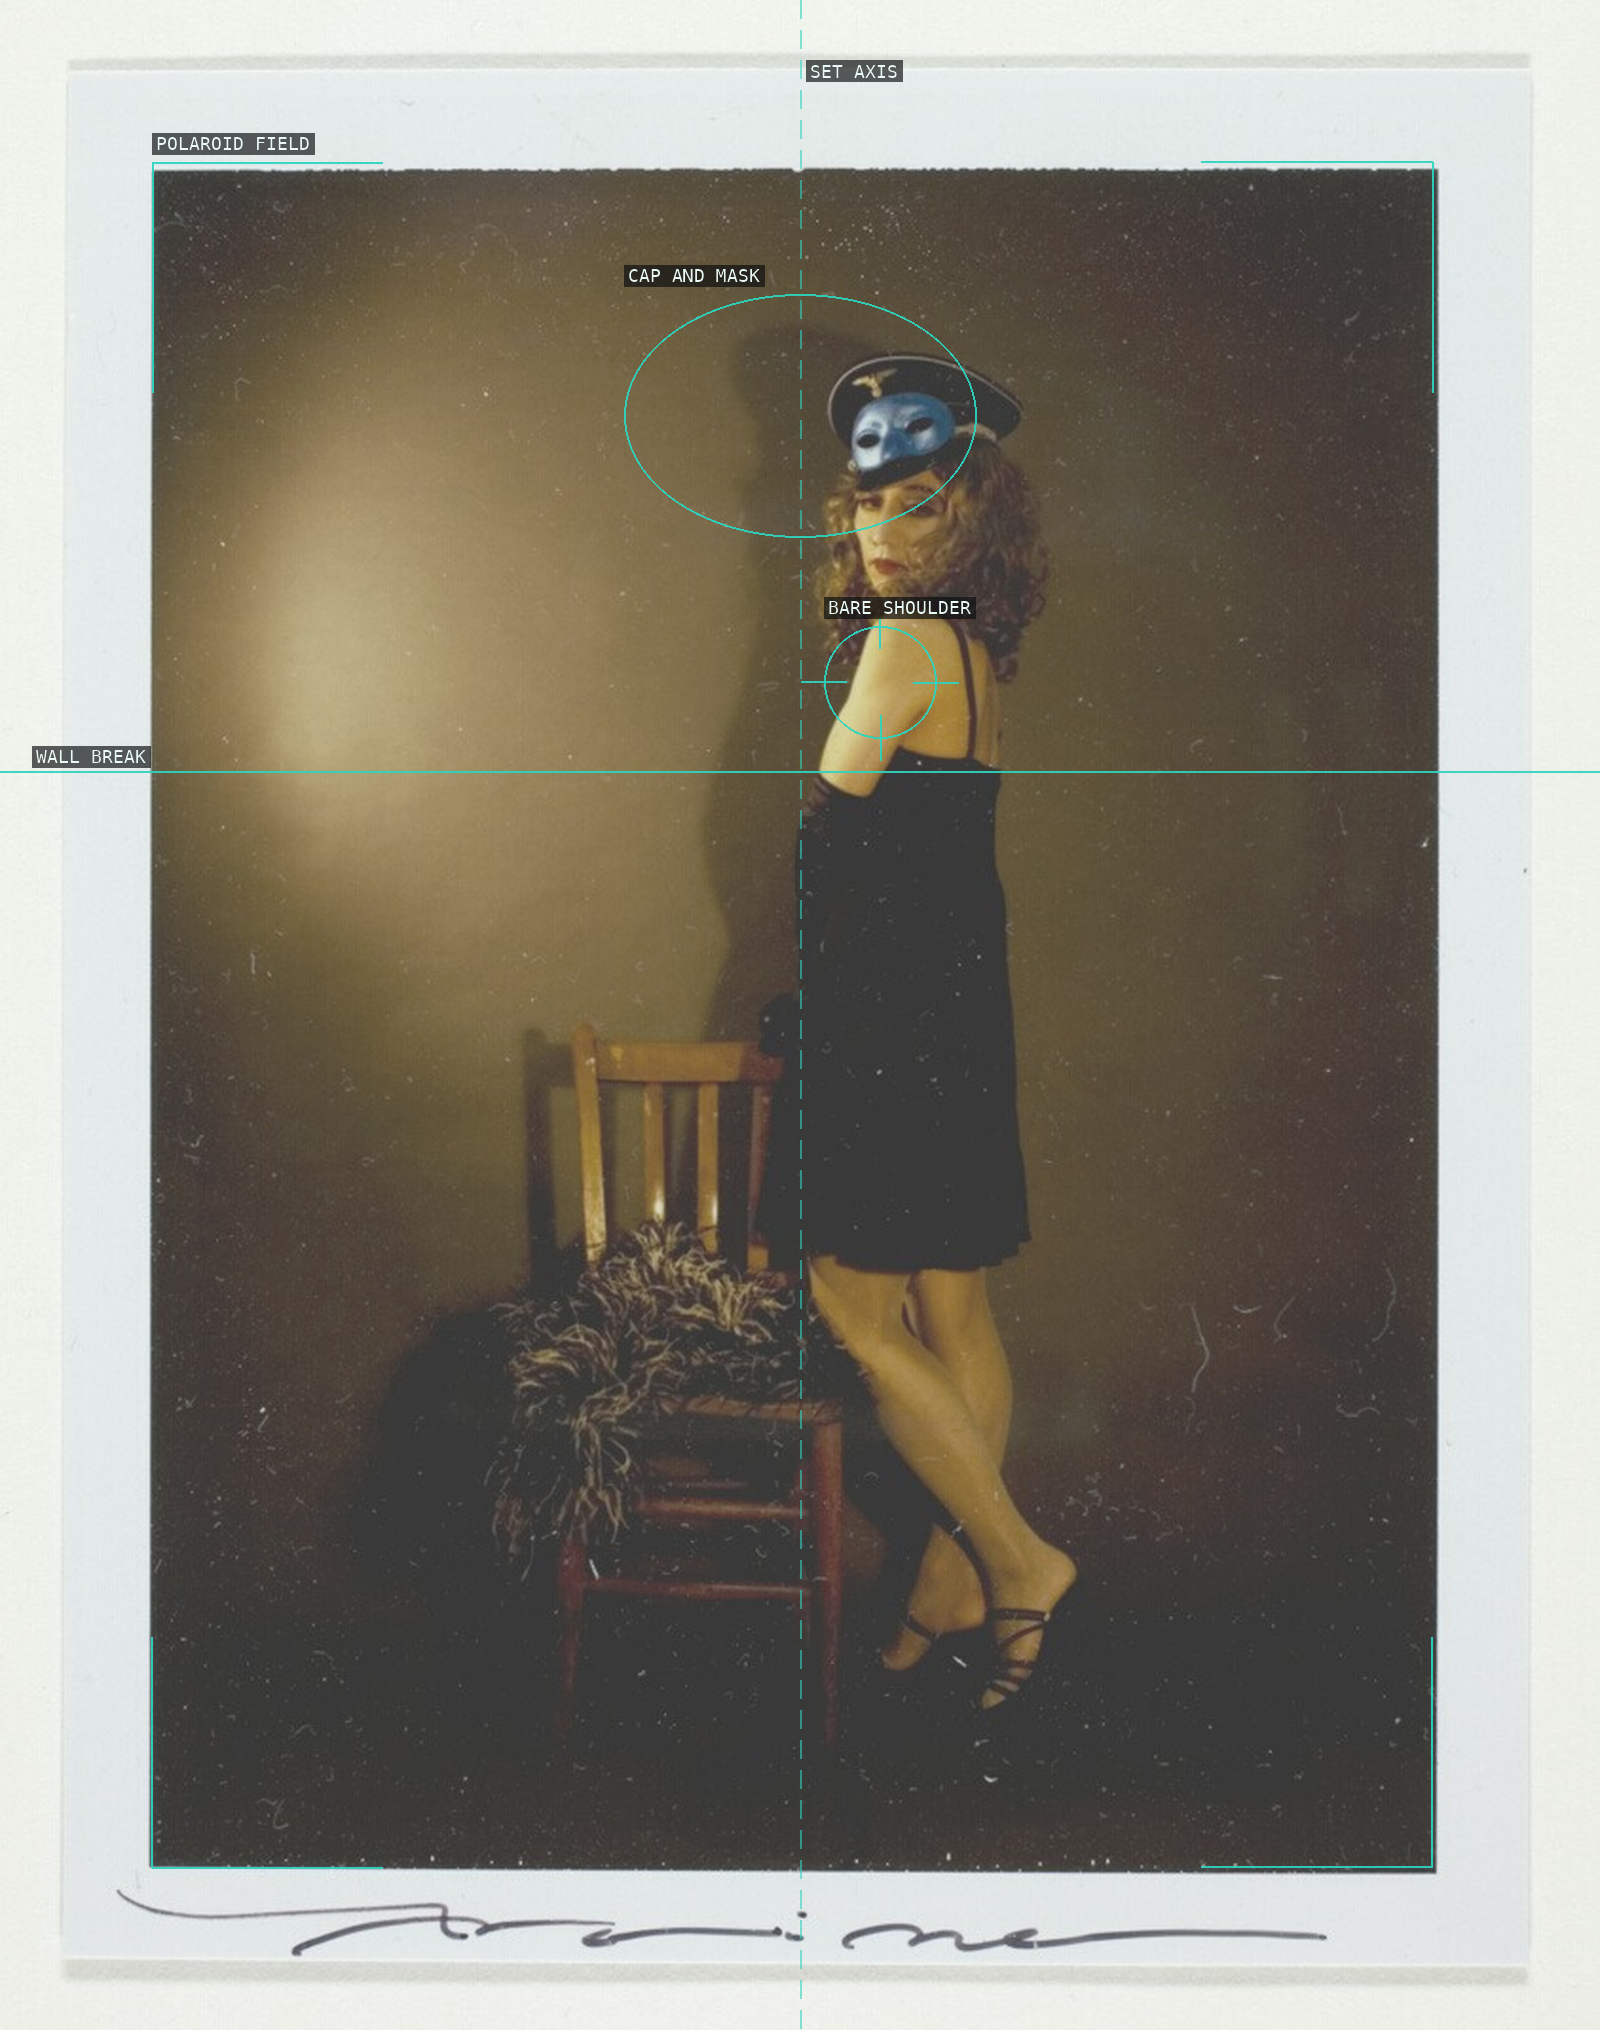
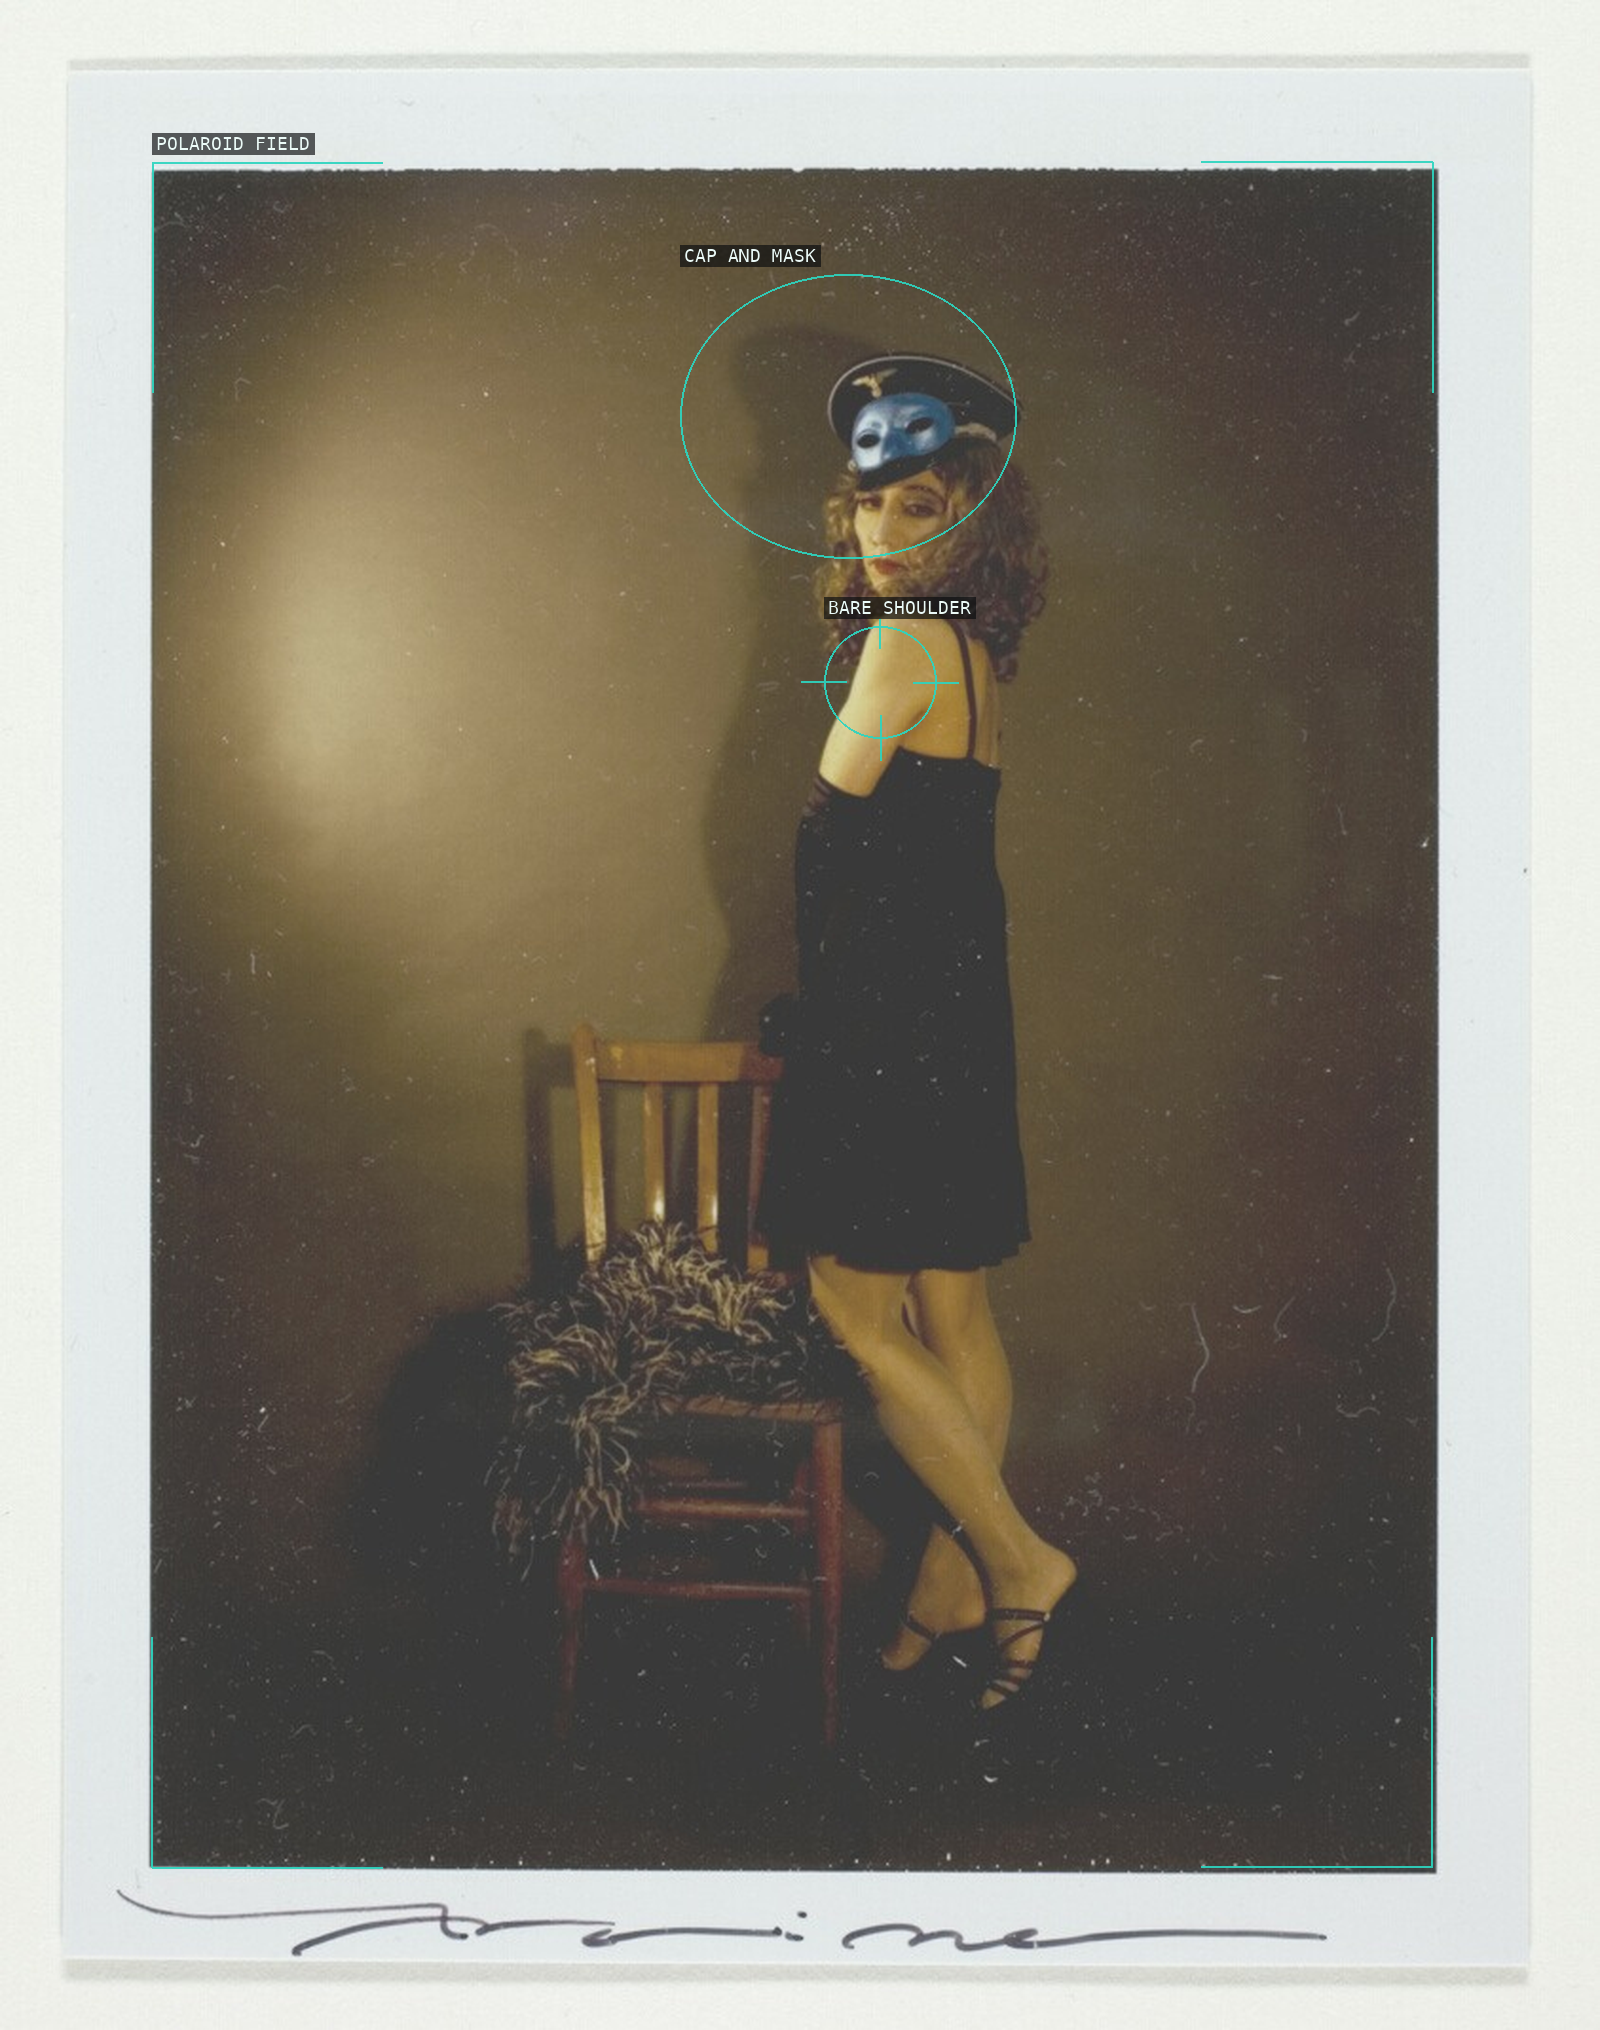
resolve critique: yasumasa-morimura

Changed region(s): [[0.375, 0.0931, 0.5312, 0.1552], [0.0312, 0.3414, 0.0938, 0.4034], [0.5, 0.031, 0.5625, 0.0621]]

diff --git a/content/yasumasa-morimura/critique.md b/content/yasumasa-morimura/critique.md
@@ -1,4 +1,4 @@
-verdict: revise
+verdict: resolved
 
 ## Critique round — 2026-07-25
 
@@ -49,3 +49,25 @@ verdict: revise
   the Art Institute collection records also match the cited titles, dates,
   media, dimensions, and image identifiers. No source-integrity revision is
   required.
+
+## Builder resolution — 2026-07-25
+
+Re-verified critique round **2026-07-25** (the complete available critique
+history) against the current overlays, proofs, and chapter.
+
+1. **01:** removed the false `signature` subject anchor; the proof now identifies
+   the staged figure and the visible cigarette-hand-to-face path instead.
+2. **02:** removed both the unsupported `wall break` horizon and the false
+   `set axis` symmetry claim; the proof now limits its claims to the Polaroid
+   field, cap-and-mask cluster, and bare shoulder.
+3. **02:** tightened the cap-and-mask ellipse around the visible cluster.
+4. **04:** removed the false hair-silhouette horizon and the misplaced
+   lowered-face anchor.
+5. **04:** moved the hand/flower annotation onto the folded hands and flower,
+   relabelled it accordingly, and updated the chapter; the kimono-collar line
+   follows its visible edge.
+
+The affected overlays were freshly analyzed, rendered, visually inspected, and
+scored at 100/100. `scripts/check.sh` completed its state, sync, prose, and
+pipeline gates; its test phase passed 296 tests. The remaining build and lint
+phases also passed (`npm run build`, `npm run lint`).
